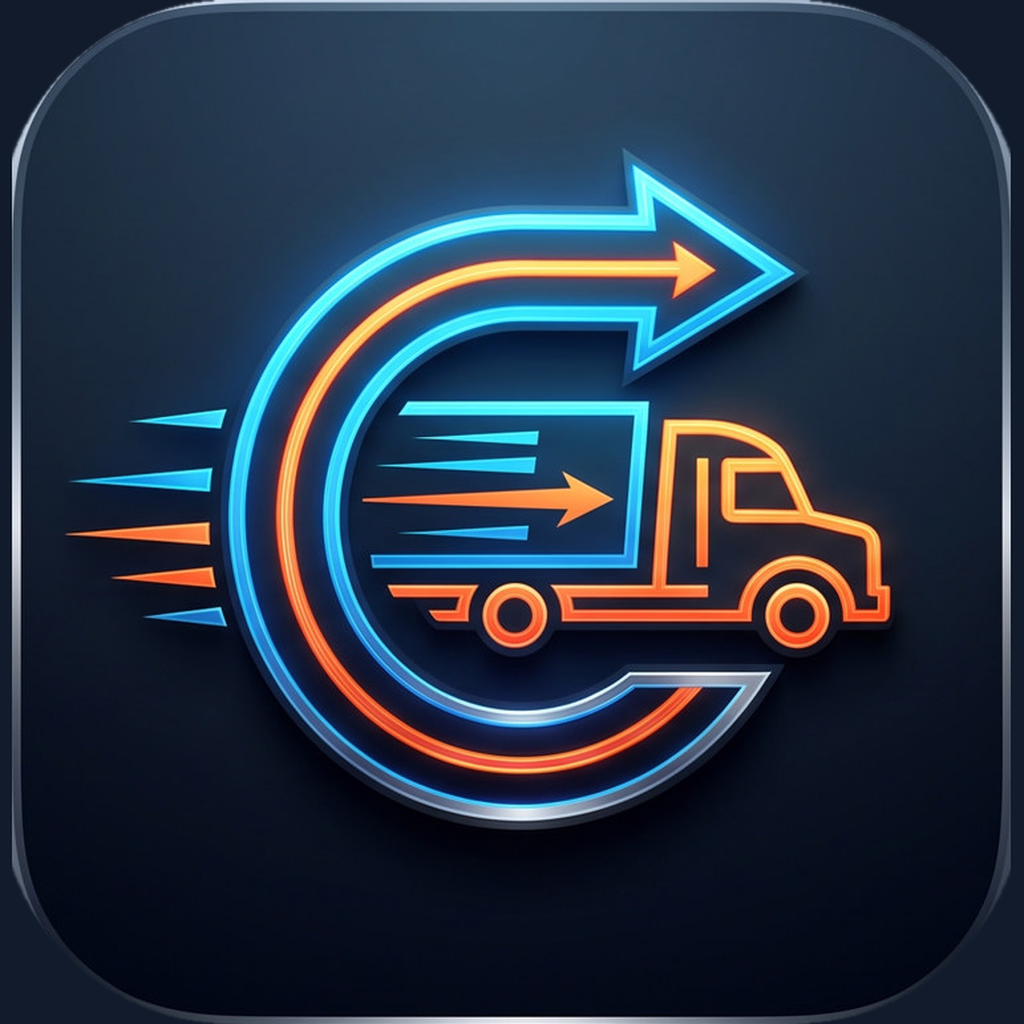
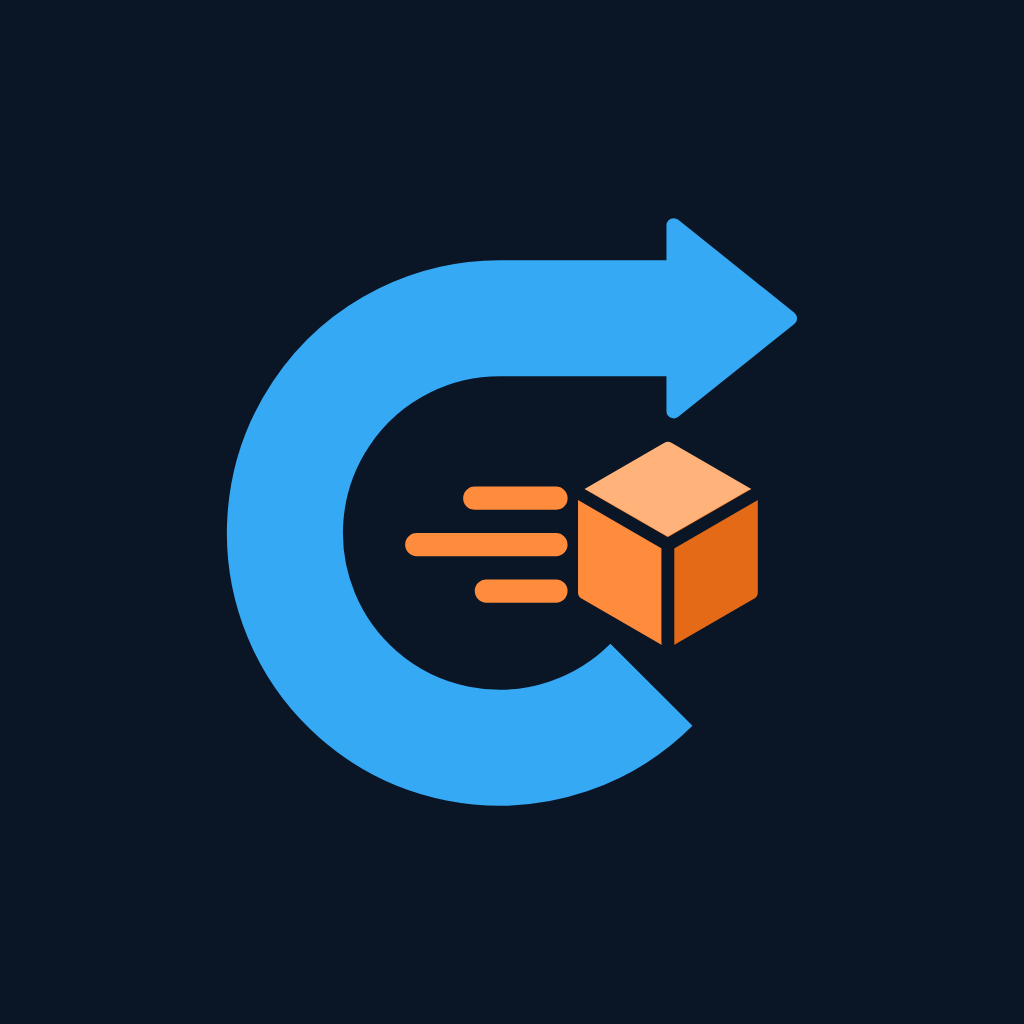
feat(brand): yangi Cargonic logotipi
Yangi logotip: ilova ikonkasi, Android adaptive ikonka, splash, favicon, kirish ekranida gorizontal logotip; splash va adaptive fon #0a1626.

diff --git a/app/(auth)/phone.tsx b/app/(auth)/phone.tsx
@@ -159,13 +159,13 @@ export default function PhoneScreen() {
     >
       <View style={styles.brandRow}>
         <Image
-          source={require('../../assets/logo.png')}
+          source={require('../../assets/logo-horizontal.png')}
           style={styles.brandLogo}
+          resizeMode="contain"
           accessible
           accessibilityRole="image"
           accessibilityLabel={uz.app.name}
         />
-        <Text style={styles.brandName}>{uz.app.name}</Text>
       </View>
 
       <Text style={styles.title} accessibilityRole="header">
@@ -205,8 +205,8 @@ export default function PhoneScreen() {
 
 const styles = StyleSheet.create({
   brandRow: { flexDirection: 'row', alignItems: 'center', gap: 10, marginTop: 12, marginBottom: 36 },
-  brandLogo: { width: 40, height: 40, borderRadius: 11 },
-  brandName: { fontSize: 20, fontWeight: '800', color: colors.slate900, letterSpacing: -0.4 },
+  // logo-horizontal.png: 604×120
+  brandLogo: { height: 34, aspectRatio: 604 / 120 },
   title: { fontSize: 30, fontWeight: '800', color: colors.slate900, letterSpacing: -0.8 },
   lead: { marginTop: 8, marginBottom: 24, fontSize: 16, lineHeight: 22, color: colors.textMuted },
   phoneInput: { fontSize: 20, fontWeight: '600', letterSpacing: 0.3 },
